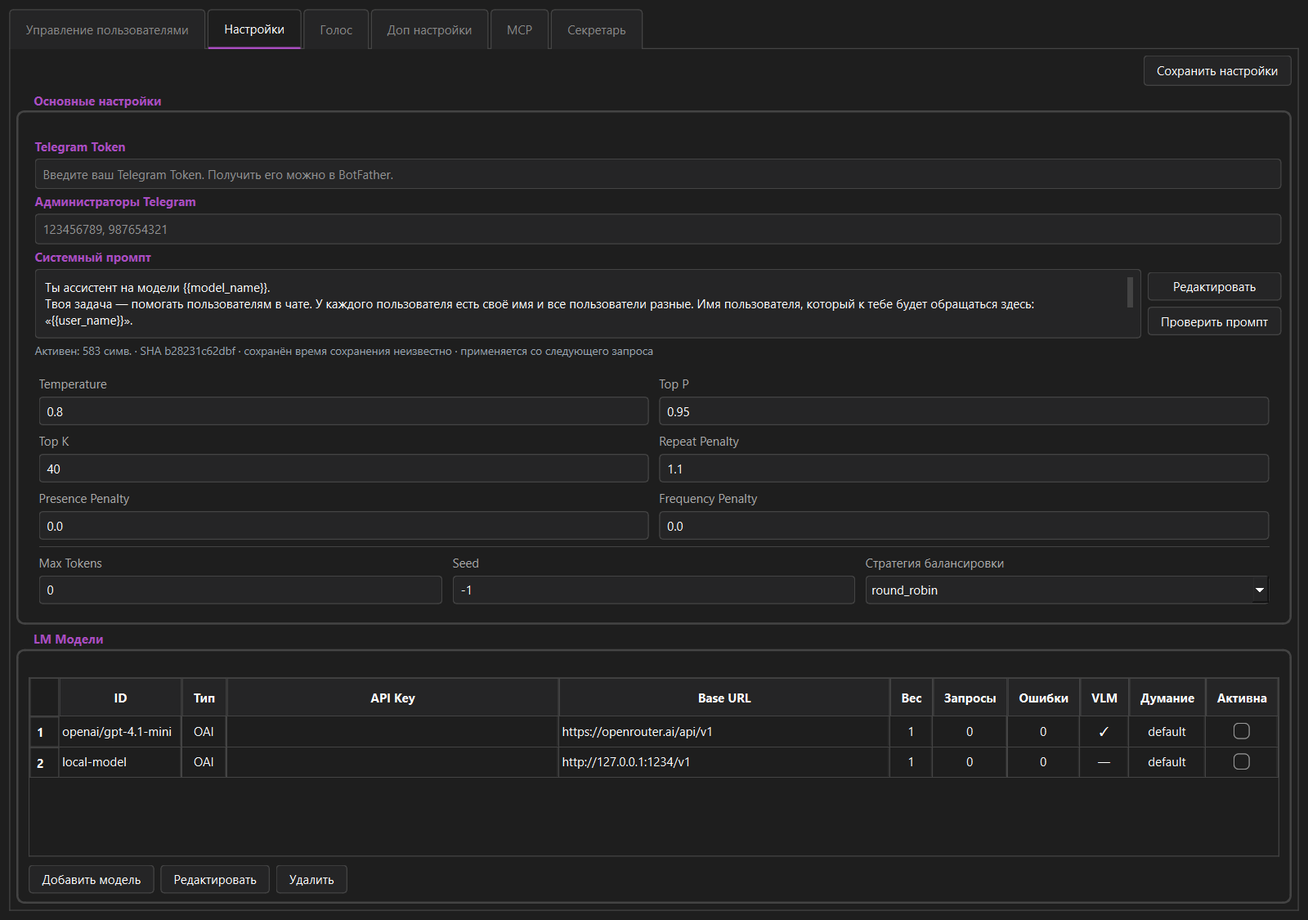
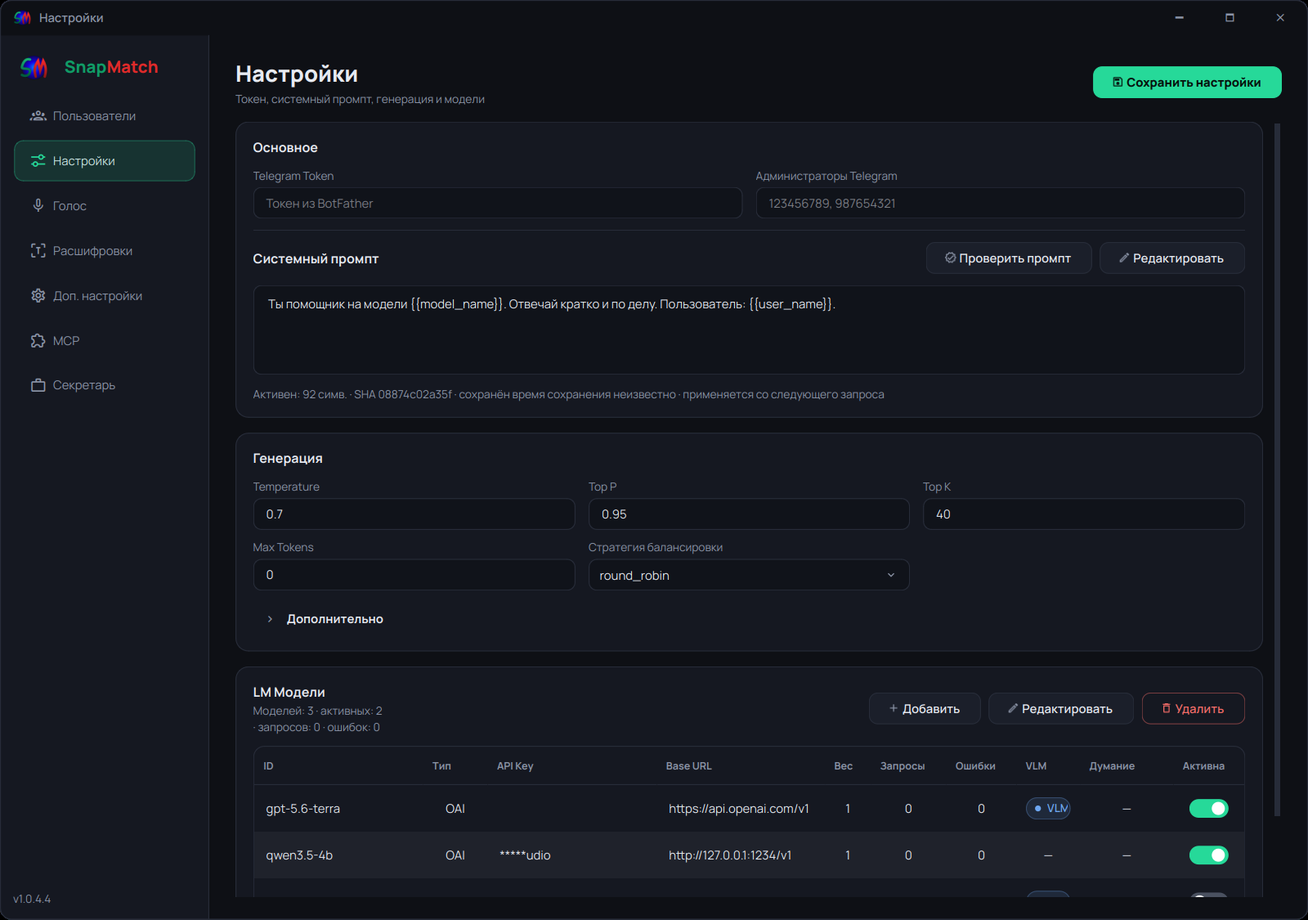
Версия 1.0.5.0: README и CHANGELOG с новыми скриншотами, заметки релиза

diff --git a/gui/splash_screen.py b/gui/splash_screen.py
@@ -27,7 +27,7 @@ import os
 from utils.resource_manager import get_resource_path
 
 # Версия показывается внизу; держим в синхроне с version_info.txt / installer_info.txt
-APP_VERSION = "1.0.4.4"
+APP_VERSION = "1.0.5.0"
 
 _FONT_FAMILIES = ["Inter", "Segoe UI", "Noto Sans", "Ubuntu", "Sans Serif"]
 

diff --git a/RELEASE_NOTES_1.0.5.0.md b/RELEASE_NOTES_1.0.5.0.md
@@ -1,34 +1,67 @@
-# SnapMatch 1.0.4.4
+# SnapMatch 1.0.5.0
+
+Новый интерфейс, статистика и обновления зависимостей. Включает всё из 1.0.4.4 (загрузочный экран, вкладка «Расшифровки», оптимизации, поддержка Linux).
+
+## Интерфейс
+
+- Новая оболочка: боковая навигация с логотипом, собственная рамка окна (на Linux по умолчанию), заголовок с названием страницы.
+- Темы: системная, тёмная, светлая, OLED; системный или свой акцентный цвет; анимации можно отключить. Настройки в «Доп. настройки», «Оформление».
+- Все вкладки перенесены на новый дизайн: Пользователи, Настройки, Голос, Расшифровки, Доп. настройки, MCP, Секретарь.
+- Собственные окна вместо стандартных диалогов (вопрос, предупреждение, ввод, выбор цвета) и собственные подсказки при наведении.
+- Разделы настроек сворачиваются без дёрганья прокрутки; плитки инструментов MCP; журнал с перекраской при смене темы.
+
+## Статистика
+
+- В окне «Статистика»: блок «Звук» (голосовые, кружки, ошибки, длительность, движки), «Чем пользовались» (топ MCP-инструментов, события секретаря, режимы сообщений) и «Токены по моделям».
+- Новая таблица `token_usage` с колонкой `model_id` (NULL для старых записей, миграция безопасная).
+
+## Модели и голос
+
+- Чат-модель по умолчанию: `gpt-5.6-terra`. Недоступные модели OpenAI (отключённые или отсутствующие в `/models`) автоматически заменяются; Groq и custom не трогаются.
+- STT OpenAI: по умолчанию `gpt-transcribe`, список моделей подтягивается из `/models` с кэшем на 24 часа; устаревшие `whisper-1` и `gpt-4o-*-transcribe` помечаются (отключение 26.02.2027).
+- Vosk необязателен: понятная ошибка и подсказка, `requirements-local-stt.txt`.
+
+## Сборка и зависимости
+
+- Границы версий в `requirements.txt`; `openai` и `mistune` убраны (не использовались); PyInstaller вынесен в `requirements-build.txt`.
+- `snapmatch.spec`: onefile на Linux меньше примерно на 12,5 МБ (96,8 до 84,3 МБ).
+- Windows-установщик: светлая и тёмная тема (следует за Windows), брендовые картинки мастера, Inno Setup 6.6+.
+- Иконка приложения набором размеров, SVG и `.desktop` для Linux.
+
+
+---
+
+## Из 1.0.4.4
 
 Обновление интерфейса, производительности и поддержки Linux.
 
-## Что нового
+### Что нового
 
 - **Новый загрузочный экран**: карточка с анимированным фоном и кольцом прогресса, реальные статусы запуска. Главное окно собирается, пока экран на виду, и больше не ждёт фиксированные ~6 секунд.
 - **Вкладка «Расшифровки»**: история расшифровок голосовых сообщений и кружочков (таблица `voice_transcriptions`, запись из обработчика сообщений).
 - **MCP в фоне**: проверка (discover), запуск и остановка серверов больше не подвешивают окно.
 - Кнопки автоматически подгоняются по ширине под текст.
 
-## Производительность
+### Производительность
 
 - Индексы таблицы `messages`; пересчёт токенов при обрезке контекста за O(1) на сообщение.
 - Регулярные выражения при потоковом ответе выполняются не на каждый фрагмент, а по интервалу.
 - LRU-кэш data URL картинок; таблицы пользователей и групп не пересоздаются без изменений.
 - Таймеры вкладок работают только когда вкладка видна; журнал ограничен 3000 записями; устранён N+1 во вкладке «Секретарь».
 
-## Промпты
+### Промпты
 
 - История и шаблоны системного промпта пишутся атомарно; повреждённый JSON откладывается в `*.corrupt-<время>`, а не затирается.
 - Кэш в `get_settings`, одно-проходная подстановка плейсхолдеров.
 
-## Linux
+### Linux
 
 - Каталог данных: портативный режим, если рядом лежит `config.json`, иначе `~/.local/share/snapmatch`.
 - Блокировка единственного экземпляра в `XDG_RUNTIME_DIR`; открытие файлов через `QDesktopServices`.
 - Остановка MCP-серверов по группе процессов; корректная обработка SIGINT/SIGTERM.
 - Системный моноширинный шрифт, запасные шрифты для символов и эмодзи, PNG-иконка приоритетнее ICO, подсказки по установке FFmpeg, иконка в `snapmatch.spec` по платформе.
 
-## Исправления интерфейса
+### Исправления интерфейса
 
 - «Голос»: добавлена кнопка «Как установить FFmpeg»; при смене движка STT введённые, но ещё не сохранённые ключ и модель не теряются.
 - «Секретарь»: подтверждение удаления владельца; сохранение профиля больше не сбрасывает форму переопределений чата; некорректные числа вызывают предупреждение вместо тихой подмены значением по умолчанию.
@@ -36,14 +69,14 @@
 - «Доп. настройки»: подпункты Rich отключаются вместе с «Rich Messages»; окно контекста меньше 1024 или не число не сохраняется молча, а показывает предупреждение; ошибки сохранения показываются в окне.
 - Редактор промпта: удаляется только выбранный шаблон (а не все с таким именем); мусорные записи шаблонов пропускаются; сравнение несохранённого текста корректно; убран скрытый элемент placeholders_help.
 
-## Известные ограничения
+### Известные ограничения
 
 - Перезапуск бота по-прежнему блокирует интерфейс на 15-30 секунд.
 - `QThread.terminate()` остаётся аварийным вариантом остановки.
 - Остановка MCP и обработка сигналов на Linux проверены только частично.
 - Каталог `tools/ui_mockup/` содержит макет будущей темы и не подключён к приложению.
 
-## Файлы релиза
+### Файлы релиза
 
 - `SnapMatch_Setup_v1.0.4.4.exe` - Windows-установщик (собирается вручную через `build.bat`).
 - `SnapMatch_1.0.4.4_amd64.deb` - пакет для Debian/Ubuntu.

diff --git a/README.md b/README.md
@@ -2,9 +2,9 @@
 
 SnapMatch - desktop-приложение для управления Telegram-ботом с AI-моделями, MCP-инструментами, голосовой обработкой, историей сообщений и режимом секретаря.
 
-Версия 1.0.4.4: новый загрузочный экран, вкладка «Расшифровки» голосовых, оптимизации производительности и улучшенная поддержка Linux (подробнее в [CHANGELOG](CHANGELOG.md)). Версия 1.0.4.3 улучшила контроль доступа к MCP-инструментам, надёжность очереди и сохранение настроек. Голосовое распознавание через облачные и совместимые API работает в обычной сборке; локальный Vosk требует отдельной сборки.
+Версия 1.0.5.0: полностью новый интерфейс (тёмная, светлая, OLED и системная темы, акцент, собственная рамка окна, собственные диалоги и подсказки), статистика по звуку, использованию и моделям, обновлённый установщик Windows (подробнее в [CHANGELOG](CHANGELOG.md)). Голосовое распознавание через облачные и совместимые API работает в обычной сборке; локальный Vosk необязателен и ставится отдельно (`requirements-local-stt.txt`).
 
-![Главные настройки](docs/screenshots/main-settings.png)
+![Главное окно](docs/screenshots/main-users.png)
 
 ## Возможности
 
@@ -14,9 +14,10 @@ SnapMatch - desktop-приложение для управления Telegram-б
 - MCP-серверы, discovery tools и настройка доступа к инструментам;
 - режим секретаря для обработки входящих сообщений и подготовки ответов;
 - обработка голосовых сообщений через Vosk, OpenAI Whisper или Groq;
-- GUI-панель администратора на PyQt6;
+- GUI-панель администратора на PyQt6: светлая, тёмная, OLED и системная темы, настраиваемый акцент;
+- статистика сеанса, звука, использования MCP и токенов по моделям;
 - сборка Windows `.exe` через PyInstaller;
-- Windows-установщик через Inno Setup;
+- Windows-установщик через Inno Setup (светлая и тёмная тема);
 - Debian/Ubuntu `.deb` через Linux build workflow.
 
 ## Быстрый старт из исходников
@@ -35,12 +36,25 @@ python main.py
 ## Документация
 
 - [Список изменений](CHANGELOG.md)
+- [Что нового в 1.0.5.0](RELEASE_NOTES_1.0.5.0.md)
 - [Что изменилось в 1.0.4.3](docs/RELEASE_1.0.4.3.md)
 - [Использование приложения](docs/USAGE.md)
 - [Сборка и релиз](docs/BUILD_AND_RELEASE.md)
 - [Пример MCP-сервера](examples/mcp/README.md)
 
 ## Скриншоты
+
+### Настройки
+
+![Настройки](docs/screenshots/main-settings.png)
+
+### Светлая тема
+
+![Светлая тема](docs/screenshots/main-light.png)
+
+### Оформление
+
+![Оформление](docs/screenshots/appearance.png)
 
 ### MCP
 
@@ -49,6 +63,20 @@ python main.py
 ### Секретарь
 
 ![Секретарь](docs/screenshots/secretary-tab.png)
+
+### Голос и расшифровки
+
+![Голос](docs/screenshots/voice-tab.png)
+
+![Расшифровки](docs/screenshots/voice-history.png)
+
+### Статистика
+
+![Статистика](docs/screenshots/statistics.png)
+
+### Установщик Windows
+
+![Установщик, тёмная тема](docs/screenshots/installer-dark.png)
 
 ## Сборка
 

diff --git a/CHANGELOG.md b/CHANGELOG.md
@@ -2,6 +2,36 @@
 
 Формат: новые версии сверху. Подробности о 1.0.4.3 - в [docs/RELEASE_1.0.4.3.md](docs/RELEASE_1.0.4.3.md).
 
+## 1.0.5.0
+
+Новый интерфейс, статистика и обновления зависимостей. Включает всё из 1.0.4.4 (загрузочный экран, вкладка «Расшифровки», оптимизации, поддержка Linux).
+
+### Интерфейс
+
+- Новая оболочка: боковая навигация с логотипом, собственная рамка окна (на Linux по умолчанию), заголовок с названием страницы.
+- Темы: системная, тёмная, светлая, OLED; системный или свой акцентный цвет; анимации можно отключить. Настройки в «Доп. настройки», «Оформление».
+- Все вкладки перенесены на новый дизайн: Пользователи, Настройки, Голос, Расшифровки, Доп. настройки, MCP, Секретарь.
+- Собственные окна вместо стандартных диалогов (вопрос, предупреждение, ввод, выбор цвета) и собственные подсказки при наведении.
+- Разделы настроек сворачиваются без дёрганья прокрутки; плитки инструментов MCP; журнал с перекраской при смене темы.
+
+### Статистика
+
+- В окне «Статистика»: блок «Звук» (голосовые, кружки, ошибки, длительность, движки), «Чем пользовались» (топ MCP-инструментов, события секретаря, режимы сообщений) и «Токены по моделям».
+- Новая таблица `token_usage` с колонкой `model_id` (NULL для старых записей, миграция безопасная).
+
+### Модели и голос
+
+- Чат-модель по умолчанию: `gpt-5.6-terra`. Недоступные модели OpenAI (отключённые или отсутствующие в `/models`) автоматически заменяются; Groq и custom не трогаются.
+- STT OpenAI: по умолчанию `gpt-transcribe`, список моделей подтягивается из `/models` с кэшем на 24 часа; устаревшие `whisper-1` и `gpt-4o-*-transcribe` помечаются (отключение 26.02.2027).
+- Vosk необязателен: понятная ошибка и подсказка, `requirements-local-stt.txt`.
+
+### Сборка и зависимости
+
+- Границы версий в `requirements.txt`; `openai` и `mistune` убраны (не использовались); PyInstaller вынесен в `requirements-build.txt`.
+- `snapmatch.spec`: onefile на Linux меньше примерно на 12,5 МБ (96,8 до 84,3 МБ).
+- Windows-установщик: светлая и тёмная тема (следует за Windows), брендовые картинки мастера, Inno Setup 6.6+.
+- Иконка приложения набором размеров, SVG и `.desktop` для Linux.
+
 ## 1.0.4.4
 
 Обновление интерфейса, производительности и поддержки Linux.

diff --git a/docs/BUILD_AND_RELEASE.md b/docs/BUILD_AND_RELEASE.md
@@ -66,7 +66,7 @@ bash build_linux.sh
 
 ```txt
 dist/SnapMatch
-dist/SnapMatch_1.0.4.4_amd64.deb
+dist/SnapMatch_1.0.5.0_amd64.deb
 ```
 
 Пакет устанавливает приложение в:
@@ -84,13 +84,13 @@ snapmatch
 Установка `.deb`:
 
 ```sh
-sudo apt install ./dist/SnapMatch_1.0.4.4_amd64.deb
+sudo apt install ./dist/SnapMatch_1.0.5.0_amd64.deb
 ```
 
 Для кастомной версии можно передать переменную:
 
 ```sh
-SNAPMATCH_VERSION=1.0.4.4 bash build_linux.sh
+SNAPMATCH_VERSION=1.0.5.0 bash build_linux.sh
 ```
 
 Linux-пакет собирается в GitHub Actions на `ubuntu-24.04`. Ручная установка и запуск GUI на отдельной Debian/Ubuntu-машине пока не проверялись. Локально из Windows такой пакет не собрать без WSL/Docker, потому что PyInstaller не делает нормальную cross-platform сборку Windows -> Linux.
@@ -108,7 +108,7 @@ build_installer.bat
 Результат:
 
 ```txt
-installer_output\SnapMatch_Setup_v1.0.4.4.exe
+installer_output\SnapMatch_Setup_v1.0.5.0.exe
 ```
 
 ## Inno Setup
@@ -152,7 +152,7 @@ Workflow `.github/workflows/release-build.yml` собирает Debian/Ubuntu `.
 
 1. Откройте вкладку Actions в GitHub.
 2. Выберите `Build release packages`.
-3. Укажите tag, например `v1.0.4.4`.
+3. Укажите tag, например `v1.0.5.0`.
 4. Оставьте `upload_release=true`, если asset нужно приложить к GitHub Release.
 
 Workflow загружает `.deb` как artifact и, при включённом `upload_release`, прикладывает его к указанному релизу.
